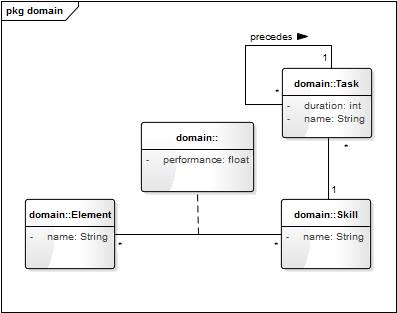
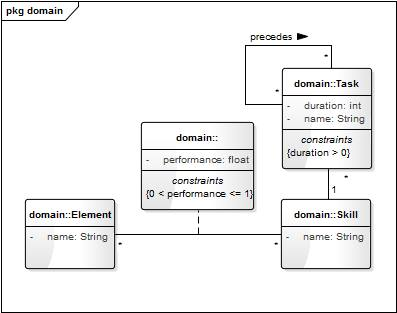
corrections

Changed region(s): [[0.3325, 0.5176, 0.665, 0.7188], [0.6952, 0.4026, 0.9673, 0.5751], [0.8161, 0.1725, 0.8463, 0.2013]]

diff --git a/report/title_page_1.tex b/report/title_page_1.tex
@@ -183,7 +183,7 @@ Espera-se que surjam dificuldades na implementação prática dos algoritmos est
 \justify\normalsize
 O sistema tem por objetivo otimizar a atribuição de membros por tarefas num dado projeto. Os dados do mesmo são introduzidos por input através de um ficheiro.
 
-Um projeto em análise caracteriza-se por um conjunto de tarefas (Task) a cumprir, tendo estas um nome (plor motivos de identificação) e uma duração. Existe ainda um conjunto de elementos (Element) que podem ser atribuídos a essas mesmas tarefas. Um elemento é identificado por um nome e tem uma lista de competências (Skill) avaliadas em função da sua capacidade. Por exemplo, o elemento "joão" tem competências na área da informática a um nível 6 e na área da economia com nível 10.
+Um projeto em análise caracteriza-se por um conjunto de tarefas (Task) a cumprir, tendo estas um nome (por motivos de identificação) e uma duração. Existe ainda um conjunto de elementos (Element) que podem ser atribuídos a essas mesmas tarefas. Um elemento é identificado por um nome e tem uma lista de competências (Skill) avaliadas em função da sua capacidade. Por exemplo, o elemento "João" tem competências na área da informática a um nível 0.6 e na área da economia com nível 1.0 (máximo).
 
 \subsection{Aquitetura}
 \justify\normalsize
